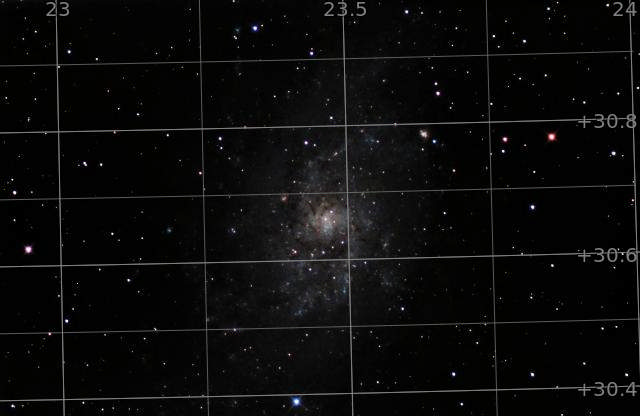
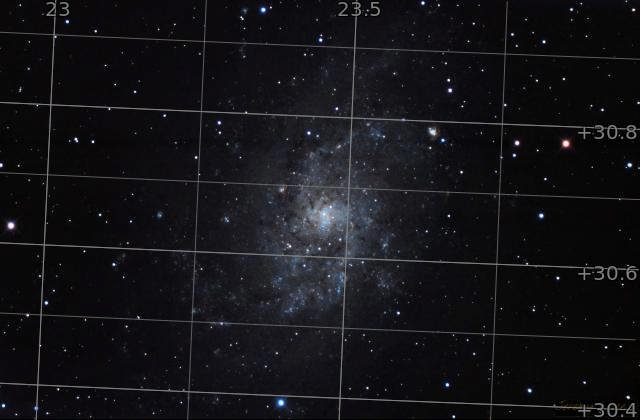
Updated images and new blog post.

diff --git a/_posts/2021-09-19-processing-ngc2174-the-monkey-head-nebula.md b/_posts/2021-09-19-processing-ngc2174-the-monkey-head-nebula.md
@@ -1,0 +1,47 @@
+---
+layout: post
+title:  "Processing NGC2174: The Monkey Head Nebula"
+author: deepskyworkflows
+categories: [ PixInsight, AstroPixel Processor, Topaz Labs ]
+tags: [ pixinsight, processing, ngc2174, stacking, noise reduction ]
+toc: false
+image: assets/images/2021-09-19/NGC2174-Monkey-Head-Nebula.png
+description: "A full end-to-end processing workflow from acquiring images to final polish using AstroPixel Processor, PixInsight, and Topaz Labs."
+featured: true
+hide: true
+comments: true
+---
+
+I recently ran a poll asking what my next video should be, and the response was near-unanimous: a full walkthrough. So, here it is. I processed NGC2174 from two sessions and recorded the entire process end-to-end. This is what it looked like:
+
+{% include youtube.html code="dVpnERUD-j0" title="Monkey Head Nebula Part 1" %}
+
+- I started with showing how to use [Stellinator](https://github.com/DeepSkyWorkflows/Stellinator) to organize the files from Stellina's thumb drive. 
+- Next, I used the [Blink tool](https://www.youtube.com/watch?v=dVpnERUD-j0&t=445s) to remove bad images.
+- Finally, I [stacked the images](https://www.youtube.com/watch?v=dVpnERUD-j0&t=799s) with AstroPixel Processor.
+
+{% include youtube.html code="tgQEQBr3TUg" title="Monkey Head Nebula Part 2" %}
+
+- Next, I applied background extraction and background neutralization, then ran color calibration.
+- Finally, I ran my [deconvolution script](https://github.com/DeepSkyWorkflows/DeepSkyWorkflowScripts/blob/main/docs/generateDeconSupport.md) to generate special masks to improve the quality of stars in the image.
+
+{% include youtube.html code="4TR2JW0SxSY" title="Monkey Head Nebula Part 3" %}
+
+- To clean up noise I used the [EZ Processing Suite](https://darkarchon.internet-box.ch:8443) EZ DeNoise feature.
+- I used the same suite to [apply a soft stretch](https://www.youtube.com/watch?v=4TR2JW0SxSY&t=340s) to the nebula.
+- I [created some special masks](https://www.youtube.com/watch?v=4TR2JW0SxSY&t=565s) to tweak the contrast and saturation and darken the background.
+- I [experimented with](https://www.youtube.com/watch?v=4TR2JW0SxSY&t=909s) Local Histogram Equalization and HDR Multiscale Transform but decided they weren't right for this workflow.
+- Finally, I [created a range mask](https://www.youtube.com/watch?v=4TR2JW0SxSY&t=1324s) to remove the last bit of noise from the background.
+
+{% include youtube.html code="JjvGfwwdAvg" title="Monkey Head Nebula Part 4" %}
+
+- I used [Topaz Labs DeNoise AI](https://www.topazlabs.com/denoise-ai) to smooth the final image.
+- Back in PixInsight, I [scaled the image](https://www.youtube.com/watch?v=JjvGfwwdAvg&t=197s) and added my signature.
+- I [pulled into Google Photos](https://www.youtube.com/watch?v=JjvGfwwdAvg&t=370s) for some final tweaks.
+
+I'm very happy with the [final result](https://www.youtube.com/watch?v=JjvGfwwdAvg&t=442s).
+
+Let me know your thoughts!
+
+
+

diff --git a/_gallery/m33-triangulum.md b/_gallery/m33-triangulum.md
@@ -1,7 +1,7 @@
 ---
 title: "M33: The Triangulum Galaxy"
 type: Galaxy
-tags: ["NGC598","M33","NGC595","Triangulum Galaxy","Triangulum Pinwheel","NGC 604"]
+tags: ["NGC598","M33","NGC595","Triangulum Galaxy","Triangulum Pinwheel","NGC604"]
 description: M33, the Triangulum Galaxy, is sometimes mistakenly referred to as the Pinwheel Galaxy (that title is held by M101). It is one of the few galaxies visible to the naked eye.
 image: /assets/images/gallery/m33/thumb.jpg
 telescope: Stellina
@@ -9,13 +9,13 @@ length: "400mm"
 aperture: "80mm"
 folder: m33
 exposure: 10
-lights: 901
-sessions: 6
+lights: 1200
+sessions: 4
 firstCapture: 2021-01-20
-lastCapture: 2021-07-28
-ra: "1h 33m 48.6s"
-dec: "+30° 40' 38.05"
-size: "57.376 x 37.291 arcmin"
-radius: "0.57 deg"
-scale: "0.495 arcsec/pixel"
+lastCapture: 2021-09-16
+ra: "1h 33m 49.0s"
+dec: "+30° 40' 0.858"
+size: "54.751 x 35.863 arcmin"
+radius: "0.545 deg"
+scale: "0.66 arcsec/pixel"
 ---

diff --git a/_gallery/ngc2174-monkeyhead-nebula.md b/_gallery/ngc2174-monkeyhead-nebula.md
@@ -1,0 +1,21 @@
+---
+title: "NGC2714: The Monkey Head Nebula"
+type: Nebula
+tags: ["NGC2174","NGC2175","Monkey Head Nebula"]
+description: The Monkey Head Nebula lies in the nebula-dense constellation of Orion. It is believed to be formed of dust, wind, and radiation caused by newborn stars.
+image: /assets/images/gallery/ngc2174/thumb.jpg
+telescope: Stellina
+length: "400mm"
+aperture: "80mm"
+folder: ngc2174
+exposure: 10    
+lights: 385
+sessions: 2
+firstCapture: 2021-08-29 
+lastCapture: 2021-09-16
+ra: "6h 9m 44.3s"
+dec: "+20° 30' 18.264"
+size: "61.6 x 41.479 arcmin"
+radius: "0.619 deg"
+scale: "0.75 arcsec/pixel"
+---

diff --git a/_gallery/m1-crab-nebula.md b/_gallery/m1-crab-nebula.md
@@ -9,13 +9,13 @@ length: "400mm"
 aperture: "80mm"
 folder: m1
 exposure: 10
-lights: 302
-sessions: 2
+lights: 372
+sessions: 3
 firstCapture: 2021-09-02 
-lastCapture: 2021-09-03
-ra: "5h 34m 32.1s"
-dec: "+22° 01' 40.889"
-size: "30.957 x 20.638 arcmin"
-radius: "0.31 deg"
+lastCapture: 2021-09-16
+ra: "5h 34m 29.9s"
+dec: "+22° 00' 57.961"
+size: "34.383 x 24.068 arcmin"
+radius: "0.35 deg"
 scale: "0.413 arcsec/pixel"
 ---

diff --git a/_posts/2021-08-27-processing-planets.md b/_posts/2021-08-27-processing-planets.md
@@ -7,7 +7,7 @@ tags: [ jupiter ]
 toc: false
 image: assets/images/gallery/jupiter/thumb.jpg
 description: "Learn how to use ImageContainer, ProcessContainer, and FFTRegistration to stack planetary images produced by Stellina. With a guest appearance from Pierre, my parrot."
-featured: true
+featured: false
 hide: true
 comments: true
 ---
